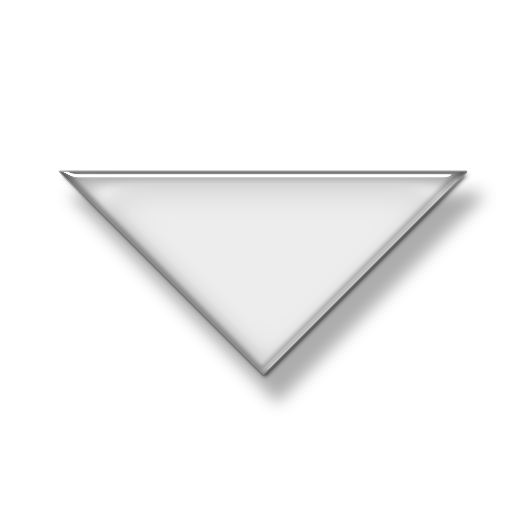
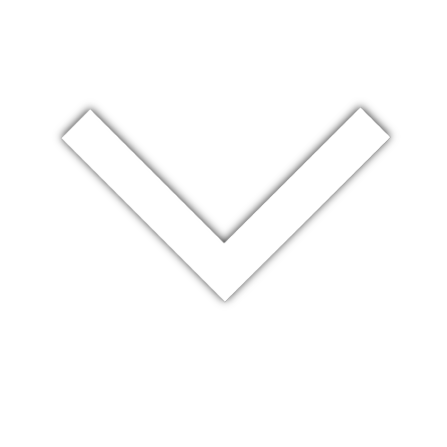
Modification des filtres
-Ajout icon
-Changement de la couleur
-Modification padding et margin
-Changement de la taille des icones

Changed region(s): [[0.1163, 0.2327, 0.9597, 0.7852], [0.1454, 0.2617, 0.1745, 0.2908]]

diff --git a/frontend/css/filter.css b/frontend/css/filter.css
@@ -3,26 +3,38 @@
     --blue:         #82aadc;
     --white:        #ddd;
     --black:        #222;
+    --tgrey:        rgba(157, 165, 175, 0.15);
+    --twhite:       rgba(221, 221, 221, 0.15);
 }
 
+.filter_box {
+    color: var(--white);
+}
 
 .box_title {
-    color: var(--black);
-    background-color: var(--grey);
+    background-color: var(--twhite);
     font-weight: bolder;
     font-size: 16px;
-    padding: 0.5rem;
+    margin: 0;
+    padding: 1rem;
     width: auto;
 }
 
 .box_content {
-    background-color: var(--white);
+    background-color: var(--tgrey);
 }
 
 .category_name {
-    color: var(--black);
+    display: flex;
     font-weight: bolder;
     font-size: 14px;
-    padding: 0.5rem;
-    border-top: solid 1px var(--black);
+    padding: 1rem;
+    border-top: solid 1px var(--twhite);
+
+    justify-content: space-between;
+}
+
+.arrow {
+    max-width: 1rem;
+    max-height: 1rem;
 }

diff --git a/frontend/css/publication.css b/frontend/css/publication.css
@@ -8,7 +8,7 @@
 .publication {
     display: grid;
     grid-auto-rows: minmax(auto, auto);
-    grid-template-columns: 250px 1fr;
+    grid-template-columns: 200px 1fr;
     margin: 0.5rem 1.5rem;
     border-bottom: solid 1px var(--grey);
     padding-bottom: 1rem;
@@ -69,7 +69,7 @@
 }
 
 .icon {
-    max-width: 3rem;
-    max-height: 3rem;
+    max-width: 2.5rem;
+    max-height: 2.5rem;
     margin-left: 0.5rem;
 }

diff --git a/frontend/src/CategoryFilter.vue b/frontend/src/CategoryFilter.vue
@@ -6,7 +6,7 @@
         <div class="box_content">
             <div class="category_name" v-for="cat in categories" :key="cat.name">
                 <h5 class="name"> {{ cat.name }} </h5>
-                <img src="./assets/arrow.png">
+                <img class="arrow" src="./assets/arrow.png">
             </div>
         </div>
     </div>

diff --git a/frontend/css/app.css b/frontend/css/app.css
@@ -38,9 +38,15 @@ h3 {
     margin-bottom: 15px;
 }
 
+h5 {
+    font-weight: normal;
+    font-size: 14px;
+    margin: 0;
+}
+
 img {
-    max-width: 220px;
-    max-height: 220px;
+    max-width: 180px;
+    max-height: 180px;
 }
 
 /*  Styles des classes
